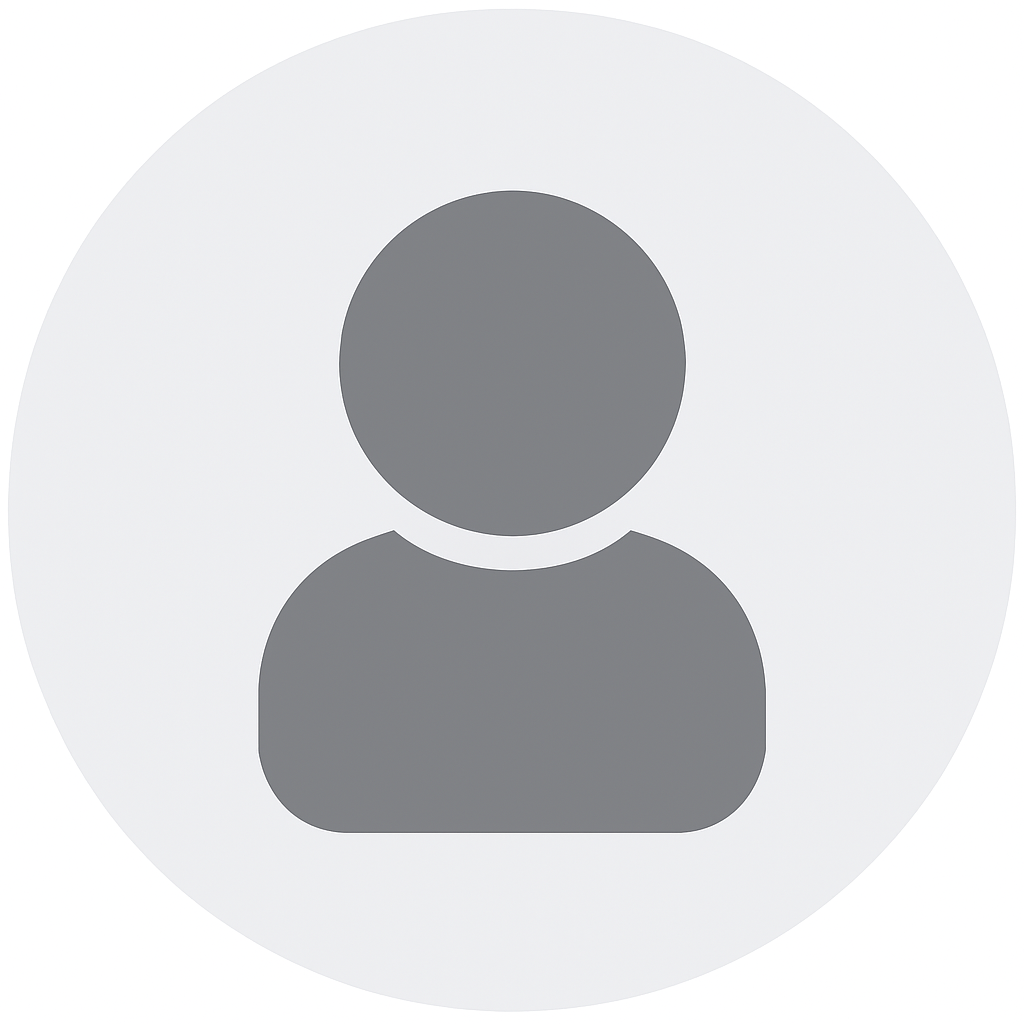
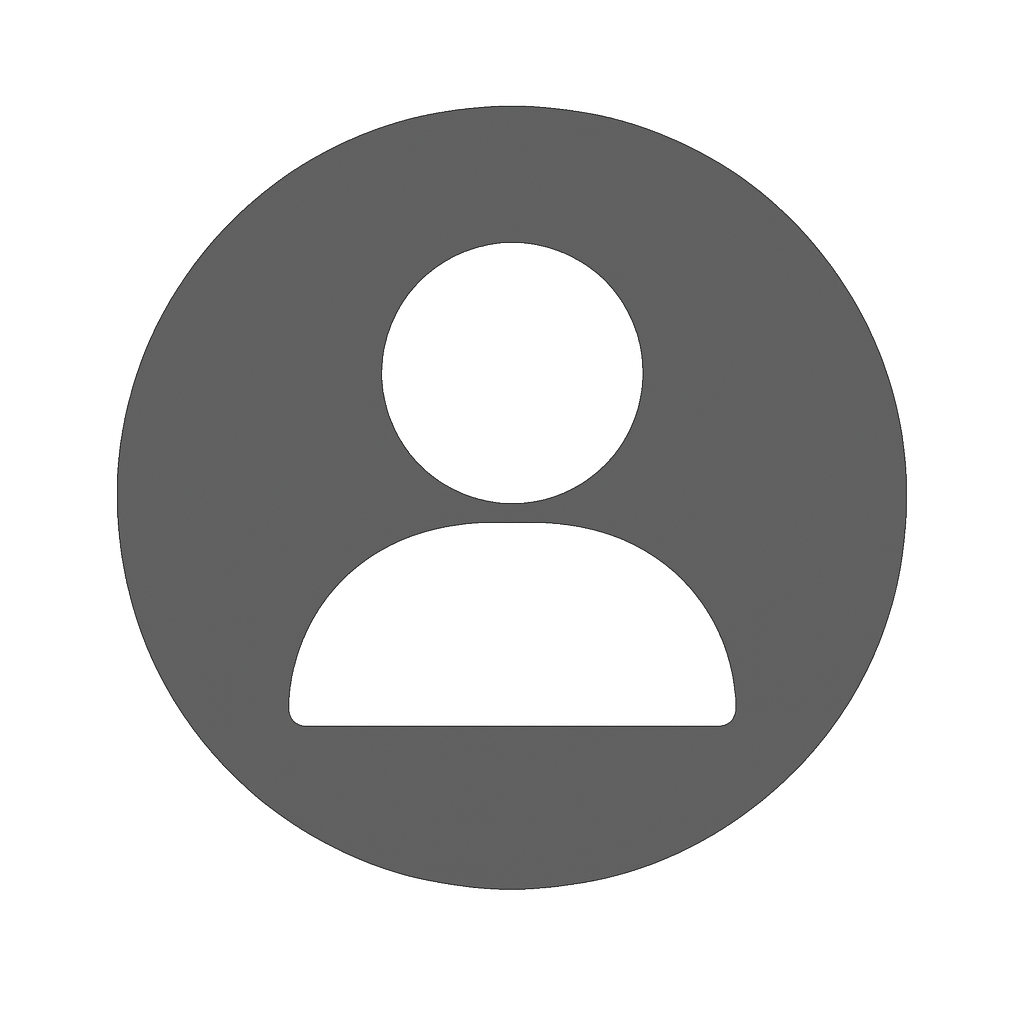
Update Halaman  Anggota

diff --git a/public/css/style.css b/public/css/style.css
@@ -1,0 +1,63 @@
+/* STYLE FOTO ANGGOTA */
+.image-sq-container {
+    position: relative; /* Diperlukan untuk menempatkan gambar secara absolut */
+    width: 100%;
+    /* Nilai 100% padding-bottom adalah kunci untuk rasio 1:1 (tinggi sama dengan lebar) */
+    padding-bottom: 100%; 
+    overflow: hidden;
+    border-bottom: 1px solid rgba(0, 0, 0, 0.125); /* Garis pemisah dari card-body */
+}
+
+/* Memastikan gambar mengisi penuh container tanpa distorsi */
+.image-sq-container img {
+    position: absolute; /* Memungkinkan gambar mengisi ruang 100% */
+    top: 0;
+    left: 0;
+    width: 100%;
+    height: 100%;
+    /* Ini adalah properti yang melakukan CROPPING (pemotongan) */
+    object-fit: cover; 
+    object-position: center; /* Memastikan pemotongan berpusat */
+}
+
+/* STYLE TOMBOL */
+.btn-sq {
+    /* KUNCI 1: Menentukan lebar dan tinggi yang sama (misalnya 30px) */
+    width: 30px; 
+    height: 30px;
+    
+    /* KUNCI 2: Menggunakan Flexbox untuk menengahkan ikon */
+    display: flex;
+    align-items: center;
+    justify-content: center;
+    
+    /* Menghapus padding default agar bentuk persegi murni */
+    padding: 0; 
+    
+    /* Mengatur ukuran ikon di dalamnya */
+    font-size: 0.8rem; 
+    border-radius: 5px; /* Opsional: sesuaikan sudut */
+}
+
+/* STYLE FOOTER */
+.footer-fixed-bottom-right {
+    /* 1. Kunci posisi agar tetap di viewport */
+    position: fixed; 
+    
+    /* 2. Posisikan di sudut kanan bawah */
+    bottom: 0; 
+    right: 0; 
+    
+    /* 3. Atur lebar agar tidak melebar ke seluruh layar */
+    width: auto; 
+    
+    /* Optional: Memberi padding agar tidak terlalu mepet ke sudut */
+    padding-right: 1.5rem; 
+    padding-bottom: 0.5rem;
+    
+    /* Optional: Pastikan footer muncul di atas elemen lain */
+    z-index: 1000; 
+    
+    /* Optional: Atur background agar teks terlihat jelas */
+    background-color: transparent; 
+}

diff --git a/database/seeders/AnggotaSeeder.php b/database/seeders/AnggotaSeeder.php
@@ -1,0 +1,40 @@
+<?php
+
+namespace Database\Seeders;
+
+use Illuminate\Database\Console\Seeds\WithoutModelEvents;
+use Illuminate\Database\Seeder;
+use Illuminate\Support\Facades\DB;
+
+class AnggotaSeeder extends Seeder
+{
+    /**
+     * Run the database seeds.
+     */
+    public function run(): void
+    {
+        DB::table('anggota')->insert([
+            ['nama' => 'Restu Ardi Putranto', 'nim' => '19232150', 'kelas' => '19.5A.09', 'jurusan' => 'Sistem Informasi', 'no_hp' => null, 'jabatan' => 'Ketua', 'alamat' => null, 'foto' => null, 'created_at' => now(), 'updated_at' => now()],
+            ['nama' => 'Marcos Dewantoro', 'nim' => '19240021', 'kelas' => '19.3A.09', 'jurusan' => 'Sistem Informasi', 'no_hp' => null, 'jabatan' => 'Wakil Ketua', 'alamat' => null, 'foto' => null, 'created_at' => now(), 'updated_at' => now()],
+            ['nama' => 'Christina Yuli Anggita', 'nim' => '19230947', 'kelas' => '19.5A.09', 'jurusan' => 'Sistem Informasi', 'no_hp' => null, 'jabatan' => 'Sekretaris 1', 'alamat' => null, 'foto' => null, 'created_at' => now(), 'updated_at' => now()],
+            ['nama' => 'Zahra Salsabila Afifah', 'nim' => '19240328', 'kelas' => '19.3A.09', 'jurusan' => 'Sistem Informasi', 'no_hp' => null, 'jabatan' => 'Sekretaris 2', 'alamat' => null, 'foto' => null, 'created_at' => now(), 'updated_at' => now()],
+            ['nama' => 'Bara Rifki Annajib', 'nim' => '19230480', 'kelas' => '19.5A.09', 'jurusan' => 'Sistem Informasi', 'no_hp' => null, 'jabatan' => 'Bendahara 1', 'alamat' => null, 'foto' => null, 'created_at' => now(), 'updated_at' => now()],
+            ['nama' => 'Rifatun Nisa', 'nim' => '19240339', 'kelas' => '19.3A.09', 'jurusan' => 'Sistem Informasi', 'no_hp' => null, 'jabatan' => 'Bendahara 2', 'alamat' => null, 'foto' => null, 'created_at' => now(), 'updated_at' => now()],
+            ['nama' => 'Dhorifa Habibie Yute Pramono', 'nim' => '19230088', 'kelas' => '19.5A.09', 'jurusan' => 'Sistem Informasi', 'no_hp' => null, 'jabatan' => 'Koordinator Public Relation', 'alamat' => null, 'foto' => null, 'created_at' => now(), 'updated_at' => now()],
+            ['nama' => 'Aura Ayunda Putri', 'nim' => '19240514', 'kelas' => '19.3A.09', 'jurusan' => 'Sistem Informasi', 'no_hp' => null, 'jabatan' => 'Staff Public Relation', 'alamat' => null, 'foto' => null, 'created_at' => now(), 'updated_at' => now()],
+            ['nama' => 'Dhimas Abdi Pangestu', 'nim' => '19240990', 'kelas' => '19.3A.09', 'jurusan' => 'Sistem Informasi', 'no_hp' => null, 'jabatan' => 'Staff Public Relation', 'alamat' => null, 'foto' => null, 'created_at' => now(), 'updated_at' => now()],
+            ['nama' => 'Eka Dirga Jayanta', 'nim' => '19240182', 'kelas' => '19.3A.09', 'jurusan' => 'Sistem Informasi', 'no_hp' => null, 'jabatan' => 'Staff Public Relation', 'alamat' => null, 'foto' => null, 'created_at' => now(), 'updated_at' => now()],
+            ['nama' => 'Putri Fiki Amalina', 'nim' => '19240981', 'kelas' => '19.3A.09', 'jurusan' => 'Sistem Informasi', 'no_hp' => null, 'jabatan' => 'Staff Public Relation', 'alamat' => null, 'foto' => null, 'created_at' => now(), 'updated_at' => now()],
+            ['nama' => 'Illona Reva Auryn', 'nim' => '19232016', 'kelas' => '19.5A.09', 'jurusan' => 'Sistem Informasi', 'no_hp' => null, 'jabatan' => 'Koordinator Project Management', 'alamat' => null, 'foto' => null, 'created_at' => now(), 'updated_at' => now()],
+            ['nama' => 'Aisyah Atha Khalila', 'nim' => '19242266', 'kelas' => '19.3A.09', 'jurusan' => 'Sistem Informasi', 'no_hp' => null, 'jabatan' => 'Staff Project Management', 'alamat' => null, 'foto' => null, 'created_at' => now(), 'updated_at' => now()],
+            ['nama' => 'Adellima Putri', 'nim' => '19241581', 'kelas' => '19.3A.09', 'jurusan' => 'Sistem Informasi', 'no_hp' => null, 'jabatan' => 'Staff Project Management', 'alamat' => null, 'foto' => null, 'created_at' => now(), 'updated_at' => now()],
+            ['nama' => 'Resya Sahroni Putri', 'nim' => '19241343', 'kelas' => '19.3A.09', 'jurusan' => 'Sistem Informasi', 'no_hp' => null, 'jabatan' => 'Staff Project Management', 'alamat' => null, 'foto' => null, 'created_at' => now(), 'updated_at' => now()],
+            ['nama' => 'Indira Akbar Agung Kurniawan', 'nim' => '19230988', 'kelas' => '19.5A.09', 'jurusan' => 'Sistem Informasi', 'no_hp' => null, 'jabatan' => 'Staff Project Management', 'alamat' => null, 'foto' => null, 'created_at' => now(), 'updated_at' => now()],
+            ['nama' => 'Evapras Kurniawan Panji Saputra', 'nim' => '19231373', 'kelas' => '19.5A.09', 'jurusan' => 'Sistem Informasi', 'no_hp' => null, 'jabatan' => 'Koordinator Pelatihan', 'alamat' => null, 'foto' => null, 'created_at' => now(), 'updated_at' => now()],
+            ['nama' => 'Faiz Aji Nugroho', 'nim' => '19230441', 'kelas' => '19.5A.09', 'jurusan' => 'Sistem Informasi', 'no_hp' => null, 'jabatan' => 'Staff Pelatihan', 'alamat' => null, 'foto' => null, 'created_at' => now(), 'updated_at' => now()],
+            ['nama' => 'Mustaqim Kumara Prabhatakala', 'nim' => '19241642', 'kelas' => '19.3A.09', 'jurusan' => 'Sistem Informasi', 'no_hp' => null, 'jabatan' => 'Staff Pelatihan', 'alamat' => null, 'foto' => null, 'created_at' => now(), 'updated_at' => now()],
+            ['nama' => 'Reihan Ramadhan Tualeka', 'nim' => '19240652', 'kelas' => '19.3A.09', 'jurusan' => 'Sistem Informasi', 'no_hp' => null, 'jabatan' => 'Staff Pelatihan', 'alamat' => null, 'foto' => null, 'created_at' => now(), 'updated_at' => now()],
+            ['nama' => 'Ambrosius Roy Kadju', 'nim' => '19241610', 'kelas' => '19.3A.09', 'jurusan' => 'Sistem Informasi', 'no_hp' => null, 'jabatan' => 'Staff Pelatihan', 'alamat' => null, 'foto' => null, 'created_at' => now(), 'updated_at' => now()],
+        ]);
+    }
+}

diff --git a/resources/views/backend/anggota/halaman_anggota.blade.php b/resources/views/backend/anggota/halaman_anggota.blade.php
@@ -1,0 +1,92 @@
+@extends('backend.layouts.app')
+
+@section('title', 'Daftar Anggota')
+
+@section('content')
+
+    <div class="page-heading">
+        <div class="page-title">
+            <div class="row">
+                <div class="col-12 col-md-6 order-md-1 order-last">
+                    <h3>Daftar Anggota</h3>
+                    <p class="text-subtitle text-muted">Pengelolaan daftar anggota/pengurus inti HIMASI UBSI Yogyakarta</p>
+                </div>
+                <div class="col-12 col-md-6 order-md-2 order-first">
+                    <nav aria-label="breadcrumb" class="breadcrumb-header float-start float-lg-end">
+                        <ol class="breadcrumb">
+                            <li class="breadcrumb-item"><a href="{{ route('backend.dashboard') }}">Dashboard</a></li>
+                            <li class="breadcrumb-item active" aria-current="page">Daftar Anggota</li>
+                        </ol>
+                    </nav>
+                </div>
+            </div>
+        </div>
+
+        {{-- Tampilkan pesan sukses --}}
+        @if (session('success'))
+            <div class="alert alert-success alert-dismissible fade show" role="alert">
+                {{ session('success') }}
+                <button type="button" class="btn-close" data-bs-dismiss="alert" aria-label="Close"></button>
+            </div>
+        @endif
+    
+        <section class="section">
+            <div class="row">
+                {{-- Tombol Aksi --}}
+                <div class="col-12" style="margin-bottom: -20px;">
+                    <a href="{{ route('backend.anggota.create') }}" class="btn btn-primary">
+                        <i class="bi bi-plus-lg"></i> Tambah Anggota
+                    </a>
+                    <a href="#" class="btn btn-danger">
+                        <i class="bi bi-trash3-fill"></i> Tempat Sampah
+                    </a>
+                </div>
+
+                {{-- Data Anggota --}}
+                <div class="row justify-content-center g-4"> 
+                    @foreach ($anggota as $agt)
+                        <div class="col-4 col-sm-4 col-md-3 col-xl-2"> 
+                            <div class="card h-100 shadow-sm text-center"> 
+                                
+                                {{-- Foto--}}
+                                <div class="card-content image-sq-container overflow-hidden"> 
+                                    <img src="{{ !empty($agt->foto) ? asset('storage/' . $agt->foto) : asset('backend-assets/images/default.png') }}"
+                                    class="card-img-top object-fit-cover w-100 h-100" 
+                                    alt="{{ $agt->nama }}">
+                                </div>
+                                
+                                <div class="card-body d-flex flex-column justify-content-between"> 
+    
+                                {{-- Keterangan --}}
+                                <div>
+                                    <h5 class="card-title text-truncate">{{ $agt->nama }}</h5>
+                                    <p class="card-text text-truncate text-muted">{{ $agt->jabatan }}</p>
+                                </div>
+
+                                {{-- Tombol Aksi --}}
+                                <div class="d-flex gap-2 mt-2 justify-content-center"> 
+                                    
+                                    {{-- Tombol Detail: Gunakan btn-sq dan warna yang sesuai --}}
+                                    <a href="#" class="btn btn-info btn-sq" title="Detail">
+                                        <i class="bi bi-eye-fill"></i>
+                                    </a>
+                                    
+                                    {{-- Tombol Edit --}}
+                                    <a href="#" class="btn btn-warning btn-sq" title="Edit">
+                                        <i class="bi bi-pencil-fill"></i>
+                                    </a>
+                                    
+                                    {{-- Tombol Hapus --}}
+                                    <button type="button" class="btn btn-danger btn-sq" title="Hapus">
+                                        <i class="bi bi-trash-fill"></i>
+                                    </button>
+                                </div>
+                            </div>
+                            </div>
+                        </div>
+                    @endforeach
+                </div>
+            </div>
+        </section>
+    </div>
+@endsection

diff --git a/resources/views/backend/anggota/tambah_anggota.blade.php b/resources/views/backend/anggota/tambah_anggota.blade.php
@@ -1,0 +1,60 @@
+@extends('backend.layouts.app')
+
+@section('title', 'Tambah Anggota')
+
+@section('content')
+    <div class="page-heading d-flex align-items-center">
+        <h3>
+            Daftar Anggota
+        </h3>
+    </div>
+    <div class="card">
+        <div class="card-body">
+            <form action="{{ route('backend.anggota.store') }}" method="POST" enctype="multipart/form-data">
+                @csrf
+
+                <div class="mb-3">
+                    <label for="nama" class="form-label">Nama</label>
+                    <input type="text" name="nama" class="form-control" required>
+                </div>
+
+                <div class="mb-3">
+                    <label for="nim" class="form-label">NIM</label>
+                    <input type="text" name="nim" class="form-control" required>
+                </div>
+
+                <div class="mb-3">
+                    <label for="kelas" class="form-label">Kelas</label>
+                    <input type="text" name="kelas" class="form-control" required>
+                </div>
+
+                <div class="mb-3">
+                    <label for="jurusan" class="form-label">Jurusan</label>
+                    <input type="text" name="jurusan" class="form-control" required>
+                </div>
+
+                <div class="mb-3">
+                    <label for="no_hp" class="form-label">No HP</label>
+                    <input type="text" name="no_hp" class="form-control" required>
+                </div>
+
+                <div class="mb-3">
+                    <label for="jabatan" class="form-label">Jabatan</label>
+                    <input type="text" name="jabatan" class="form-control" required>
+                </div>
+
+                <div class="mb-3">
+                    <label for="alamat" class="form-label">Alamat</label>
+                    <textarea name="alamat" class="form-control" rows="2" required></textarea>
+                </div>
+
+                <div class="mb-3">
+                    <label for="foto" class="form-label">Foto</label>
+                    <input type="file" name="foto" class="form-control">
+                </div>
+
+                <button type="submit" class="btn btn-primary">Simpan</button>
+            </form>
+        </div>
+    </div>
+@endsection

diff --git a/app/Http/Controllers/AnggotaController.php b/app/Http/Controllers/AnggotaController.php
@@ -14,7 +14,7 @@ class AnggotaController extends Controller
     public function index()
     {
         $anggota = Anggota::all();
-        return view('backend.anggota.index', compact('anggota'));
+        return view('backend.anggota.halaman_anggota', compact('anggota'));
     }
 
     /**
@@ -22,7 +22,7 @@ class AnggotaController extends Controller
      */
     public function create()
     {
-        return view('backend.anggota.create');
+        return view('backend.anggota.tambah_anggota');
     }
 
     /**
@@ -40,12 +40,6 @@ class AnggotaController extends Controller
             'alamat'   => 'required|string|max:255',
             'foto'     => 'nullable|image|mimes:jpg,jpeg,png|max:2048',
         ]);
-
-        if ($request->hasFile('foto')) {
-            $validated['foto'] = $request->file('foto')->store('anggota', 'public');
-        } else {
-            $validated['foto'] = 'anggota/default.jpg'; // default image
-        }
 
         Anggota::create($validated);
 

diff --git a/database/migrations/2025_11_01_102637_create_anggota_table.php b/database/migrations/2025_11_01_102637_create_anggota_table.php
@@ -17,9 +17,9 @@ return new class extends Migration
             $table->string('nim');
             $table->string('kelas');
             $table->string('jurusan');
-            $table->string('no_hp');
+            $table->string('no_hp') ->nullable();
             $table->string('jabatan');
-            $table->string('alamat');
+            $table->string('alamat') ->nullable();
             $table->string('foto')->nullable();
             $table->unsignedBigInteger('users_id')->nullable();
             $table->timestamps();

diff --git a/database/seeders/DatabaseSeeder.php b/database/seeders/DatabaseSeeder.php
@@ -6,6 +6,8 @@ namespace Database\Seeders;
 use Illuminate\Database\Seeder;
 use Database\Seeders\RolesTableSeeder;
 use Database\Seeders\UsersTableSeeder;
+use Database\Seeders\SaldoSeeder;
+use Database\Seeders\AnggotaSeeder;
 
 class DatabaseSeeder extends Seeder
 {
@@ -22,5 +24,8 @@ class DatabaseSeeder extends Seeder
 
         // Seed saldos after users exist
         $this->call(SaldoSeeder::class);
+        
+        // Seed saldos after users exist
+        $this->call(AnggotaSeeder::class);
     }
 }

diff --git a/resources/views/backend/partials/sidebar.blade.php b/resources/views/backend/partials/sidebar.blade.php
@@ -27,7 +27,7 @@
                     </a>
                 </li>
 
-                <li class="sidebar-item {{ Route::currentRouteName() == 'backend.anggota.index' ? 'active' : '' }} ">
+                <li class="sidebar-item {{ request()->routeIs('backend.anggota.*') ? 'active' : '' }} ">
                     <a href="{{ route('backend.anggota.index') }}" class='sidebar-link'>
                         <i class="bi bi-people-fill"></i>
                         <span>Anggota</span>

diff --git a/resources/views/backend/layouts/app.blade.php b/resources/views/backend/layouts/app.blade.php
@@ -16,6 +16,9 @@
     <link rel="stylesheet" href="/backend-assets/vendors/bootstrap-icons/bootstrap-icons.css">
     <link rel="stylesheet" href="/backend-assets/css/app.css">
     <link rel="shortcut icon" href="/backend-assets/images/favicon.svg" type="image/x-icon">
+
+    {{-- STYLE CSS HANDMADE --}}
+    <link rel="stylesheet" href="{{ asset('css/style.css') }}">
     
     @stack('styles')
 </head>

diff --git a/resources/views/backend/partials/footer.blade.php b/resources/views/backend/partials/footer.blade.php
@@ -1,4 +1,4 @@
-<footer>
+<footer class="footer-fixed-bottom-right"> 
     <div class="footer clearfix mb-0 text-muted">
         <div class="float-end">
             <p>2025 &copy; HIMASIHUB. All Rights Reserved</p>
